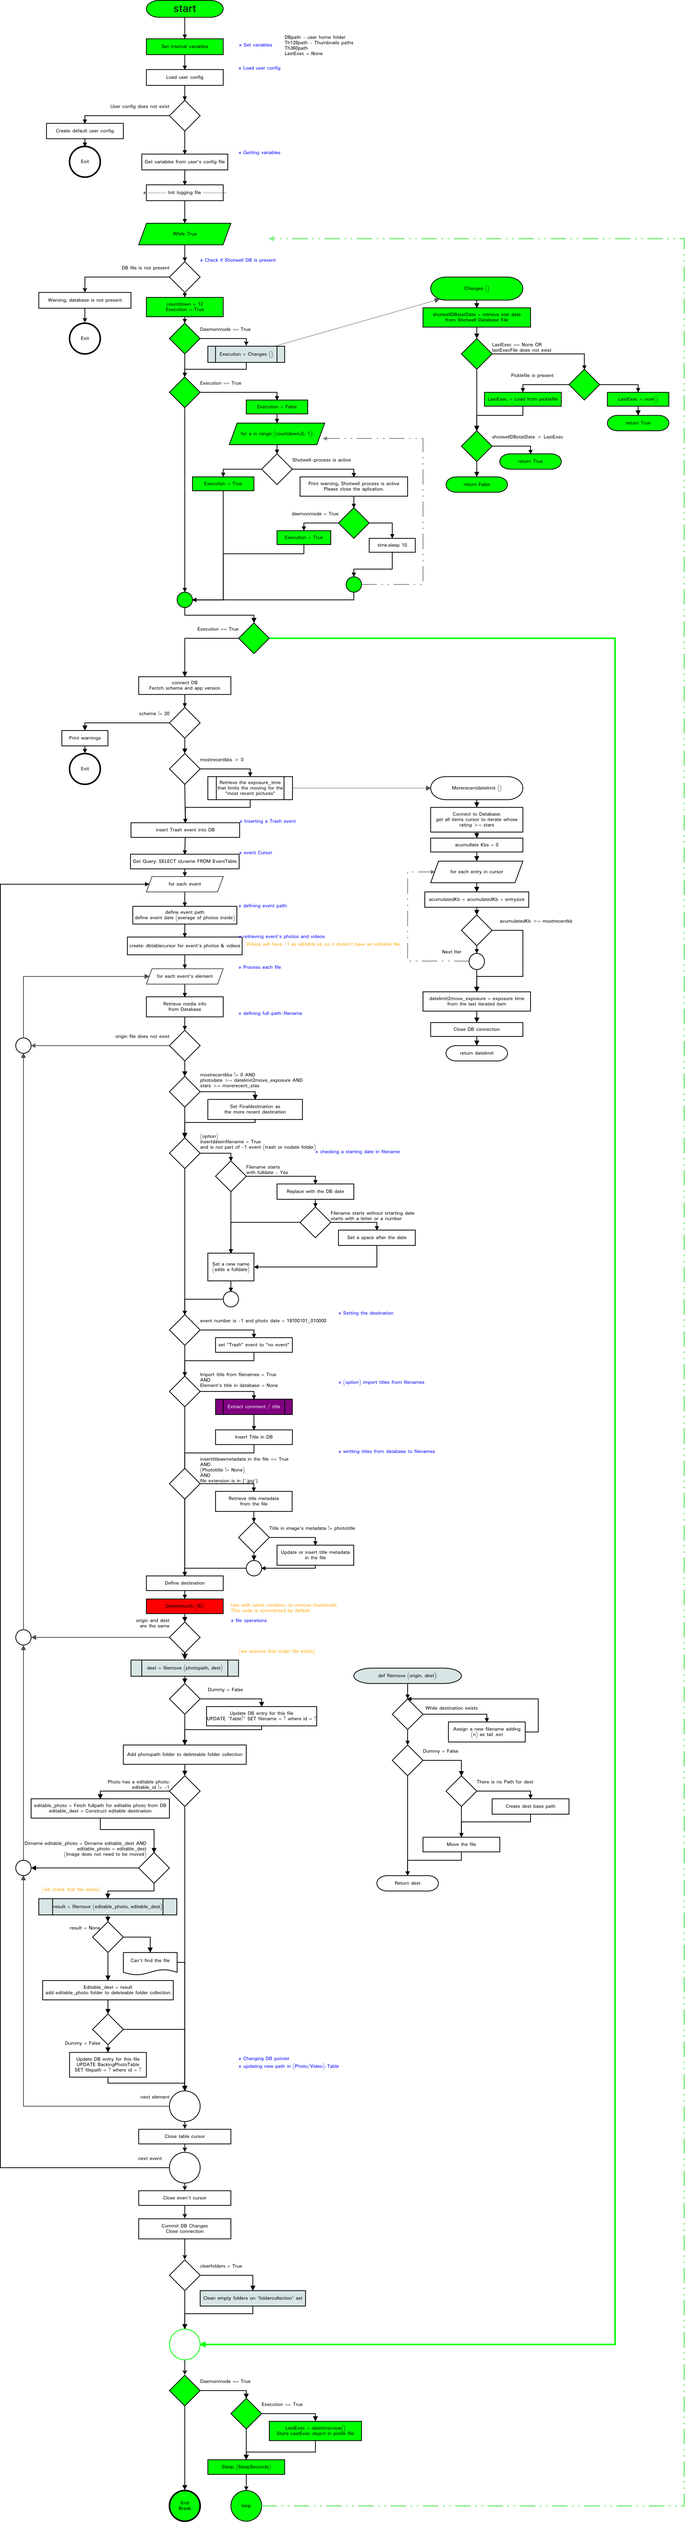
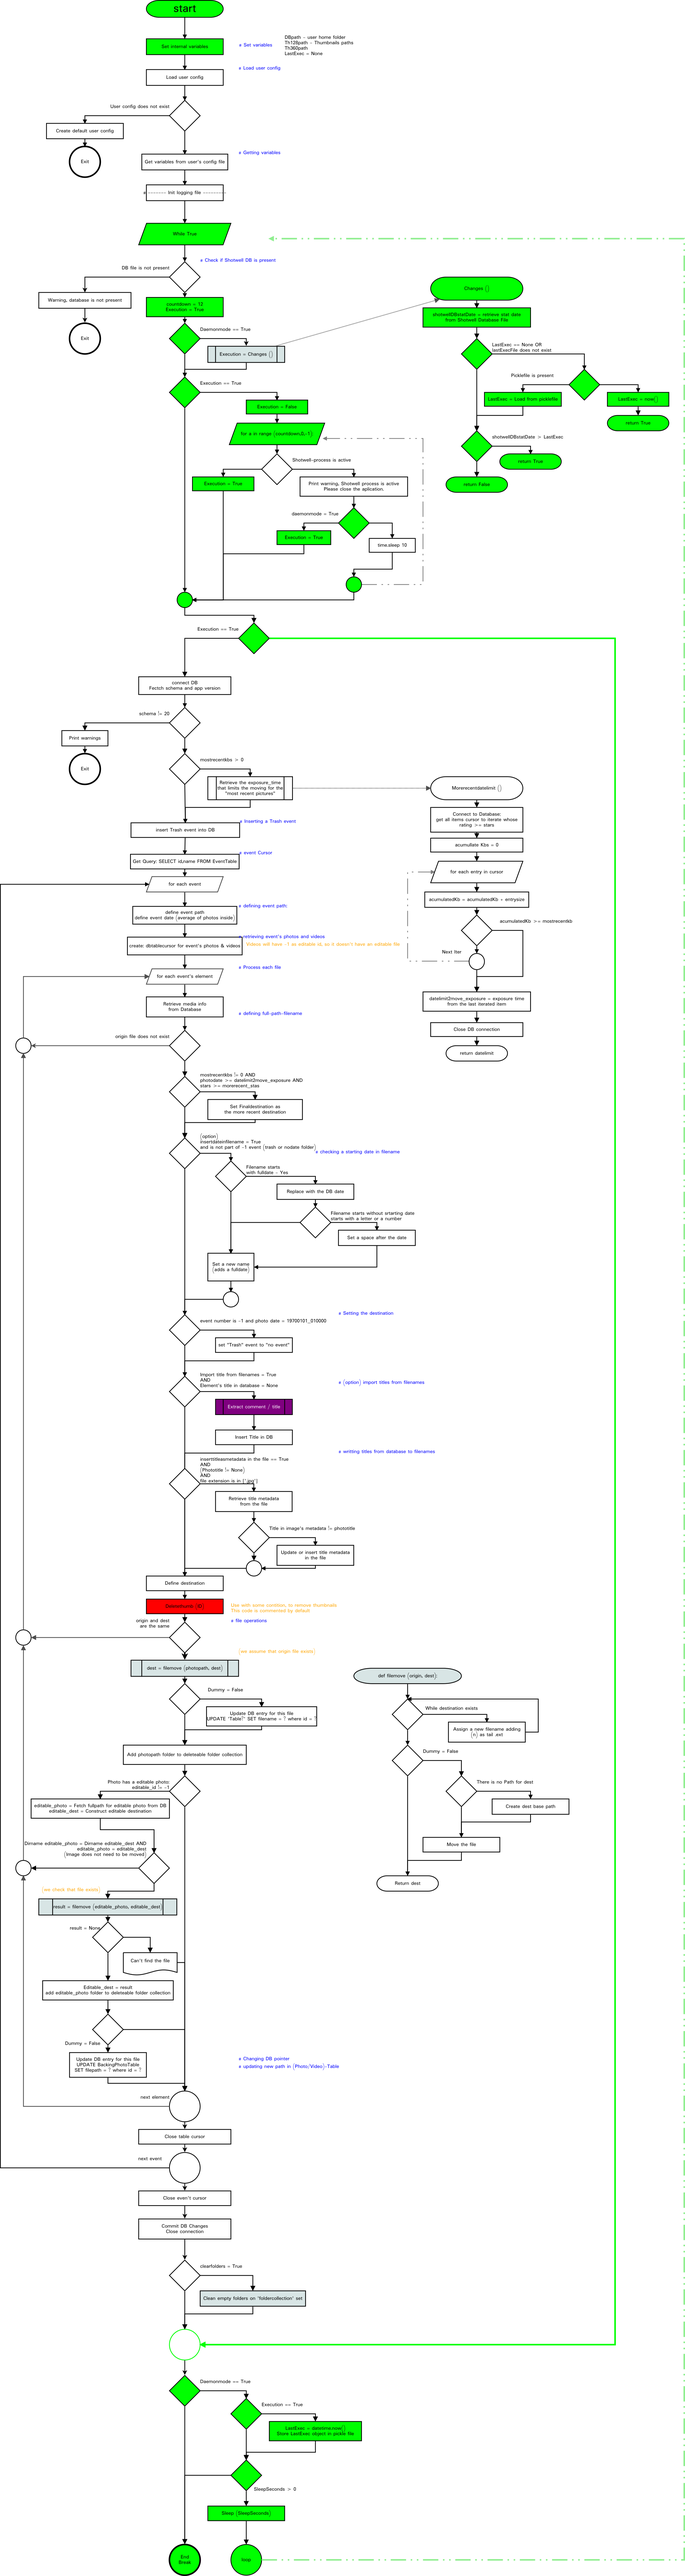
Added run once in daemon monde if sleeepseconds is 0

diff --git a/Shotwell_event2folder.py b/Shotwell_event2folder.py
@@ -654,7 +654,10 @@ if __name__ == '__main__':
 				logging.debug ('Creating/updating LastExecFile.dump')
 				pickle.dump (LastExec, f)
 				f.close()
-			time.sleep (sleepseconds)
+			if sleepseconds > 0:
+				time.sleep (sleepseconds)
+			else:
+				break
 		else:
 			break
 	print ('Done!')
